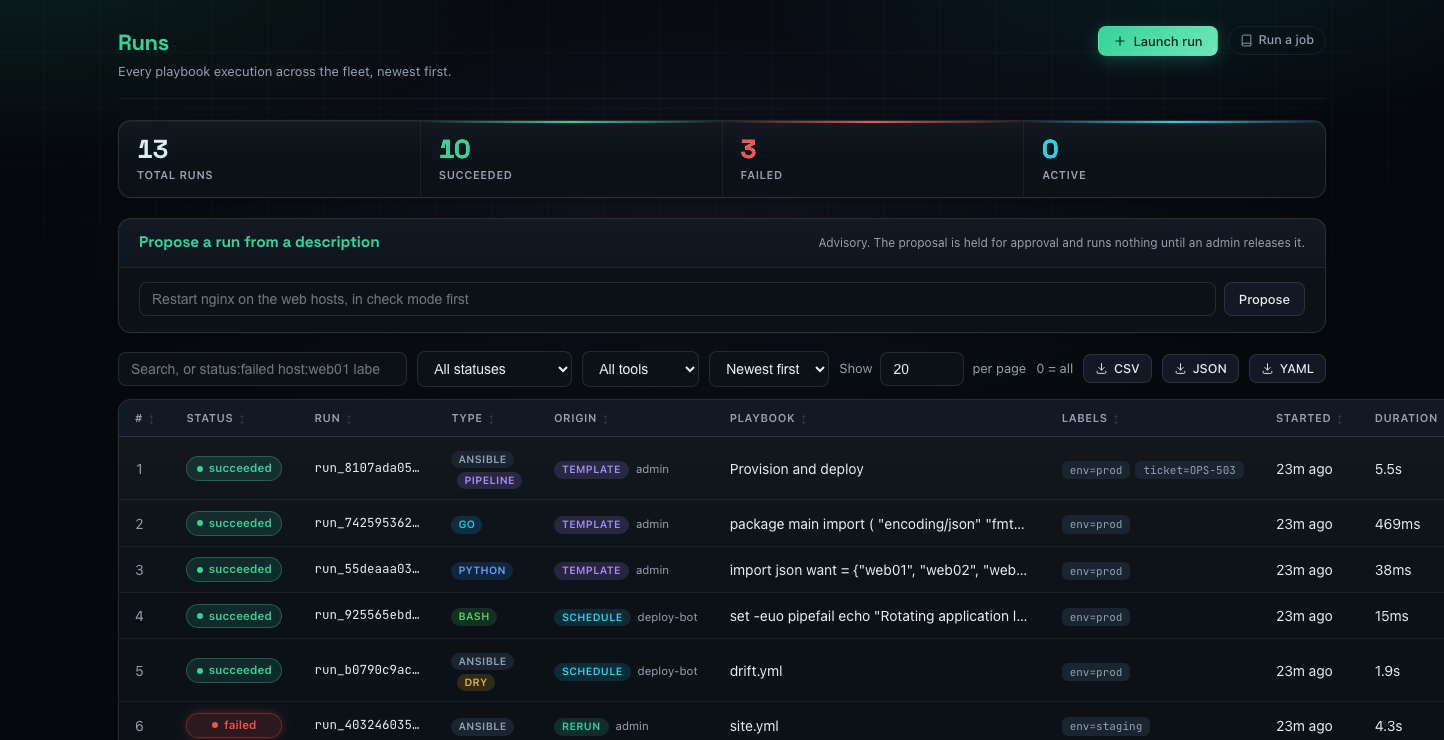
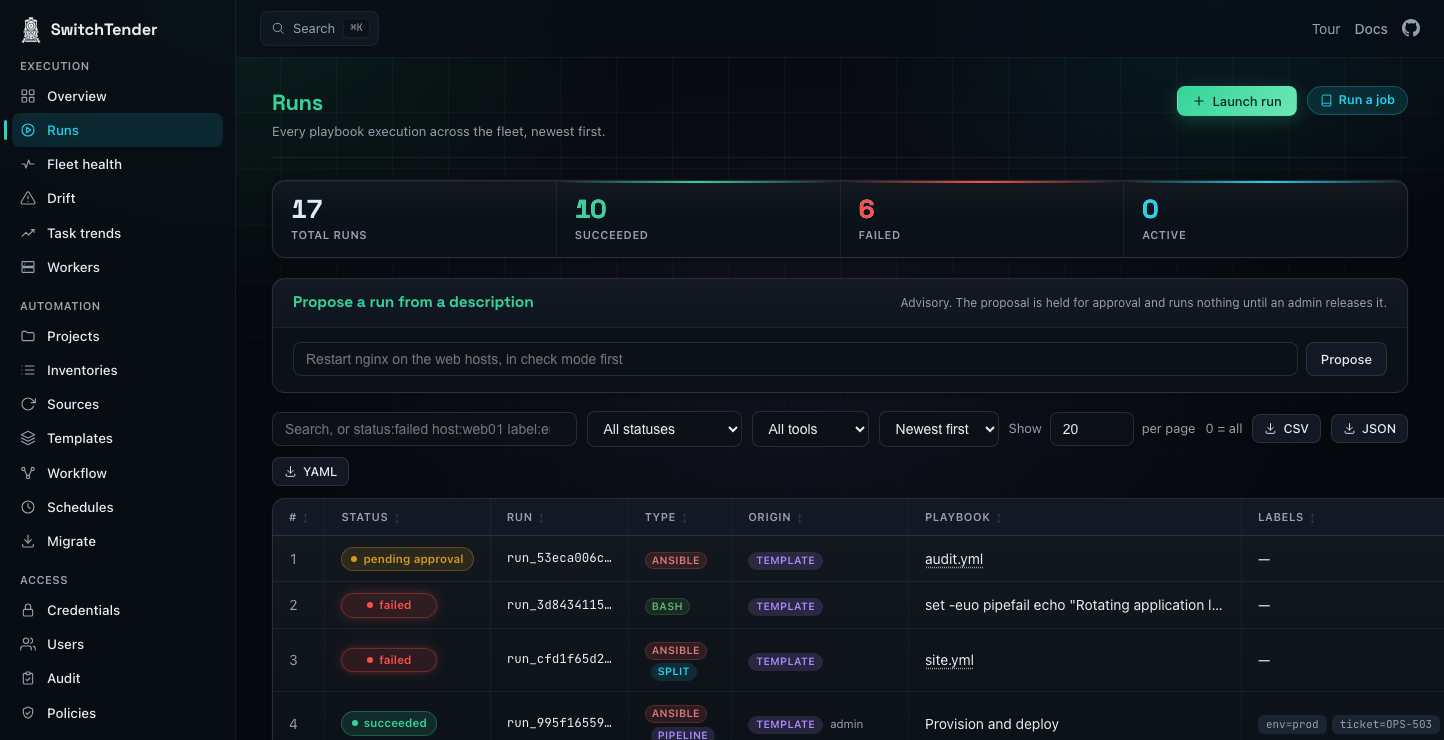
Refresh the runs and fleet screenshots
Shot from a seeded v1.57 instance, so the column dividers and current table chrome show.

diff --git a/site/index.html b/site/index.html
@@ -84,7 +84,7 @@
 				<div class="glow" aria-hidden="true"></div>
 				<figure class="window">
 					<div class="window-bar"><span></span><span></span><span></span><em>switchtender: fleet health</em></div>
-					<img src="/assets/screenshot-fleet.png?v=8" alt="Fleet health ranking hosts by recent failures, with flaky detection and per-host outcome sparklines" loading="lazy">
+					<img src="/assets/screenshot-fleet.png?v=9" alt="Fleet health ranking hosts by recent failures, with flaky detection and per-host outcome sparklines" loading="lazy">
 				</figure>
 			</div>
 		</section>
@@ -383,7 +383,7 @@ open http://localhost:8080/ui/</code></pre>
 			<div class="themes-grid">
 				<a class="window theme-shot" href="https://demo.switchtender.com/ui/runs">
 					<div class="window-bar"><span></span><span></span><span></span><em>runs, with origin and labels</em></div>
-					<img src="/assets/screenshot-runs.png?v=1" alt="The runs list with status, type, origin, playbook, and label columns, all sortable" loading="lazy">
+					<img src="/assets/screenshot-runs.png?v=2" alt="The runs list with status, type, origin, playbook, and label columns, all sortable" loading="lazy">
 				</a>
 				<a class="window theme-shot" href="https://demo.switchtender.com/ui/workflows">
 					<div class="window-bar"><span></span><span></span><span></span><em>the workflow editor</em></div>
